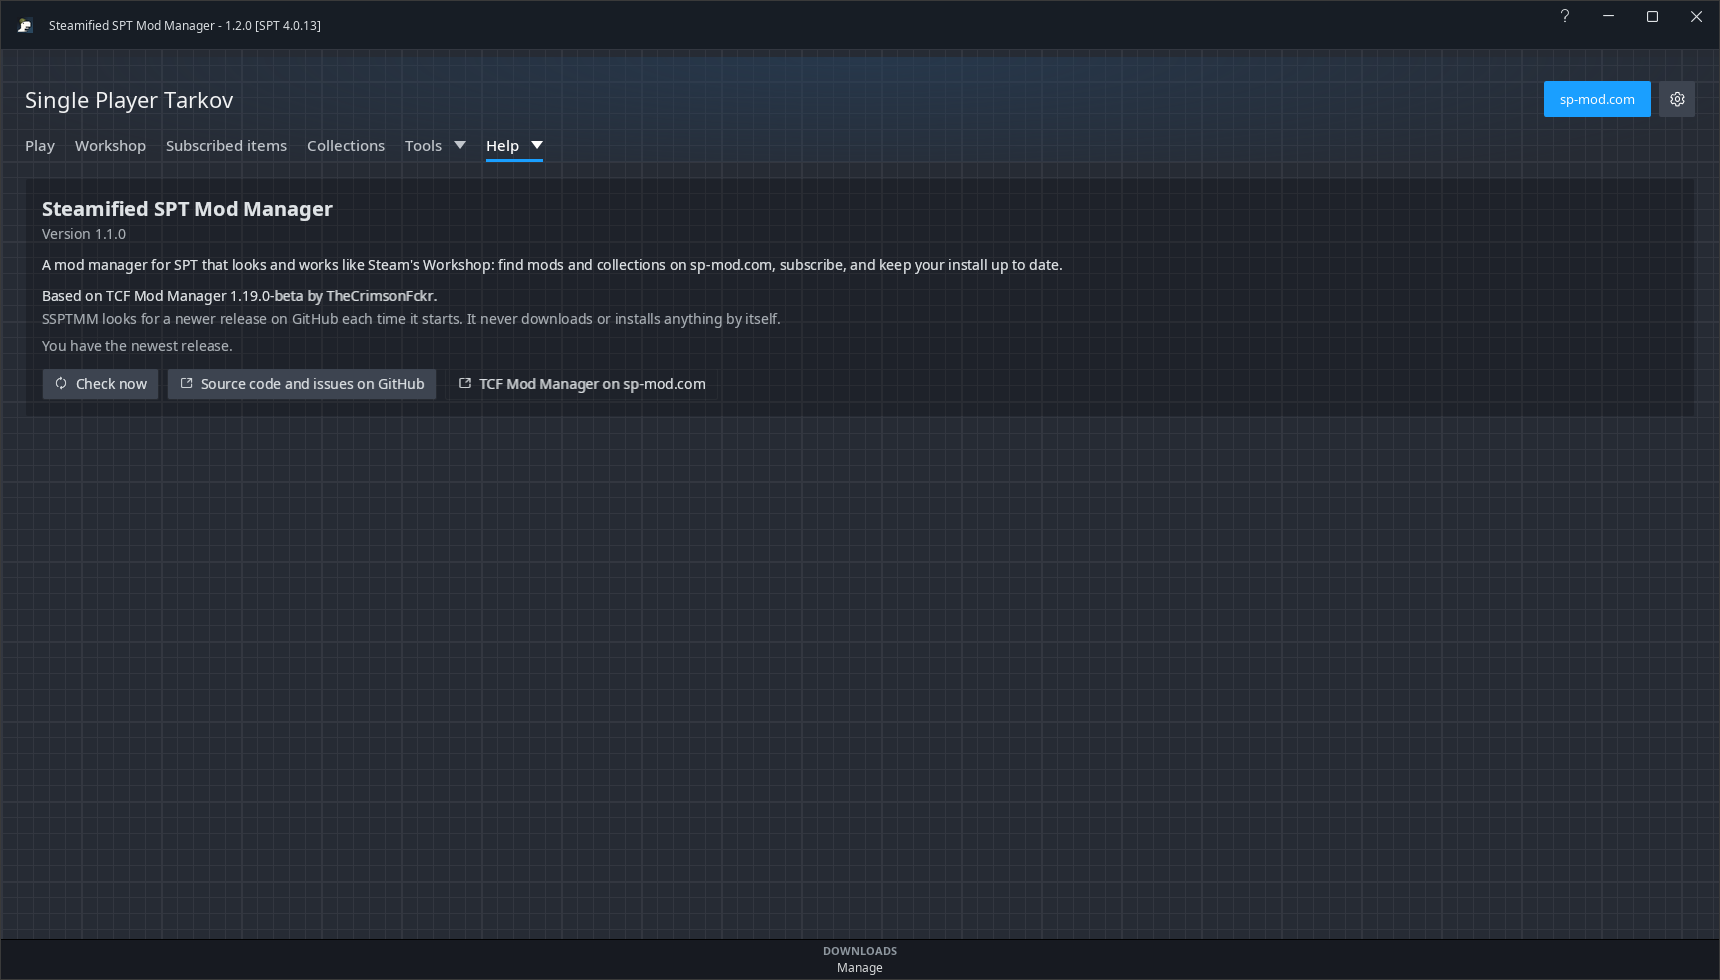
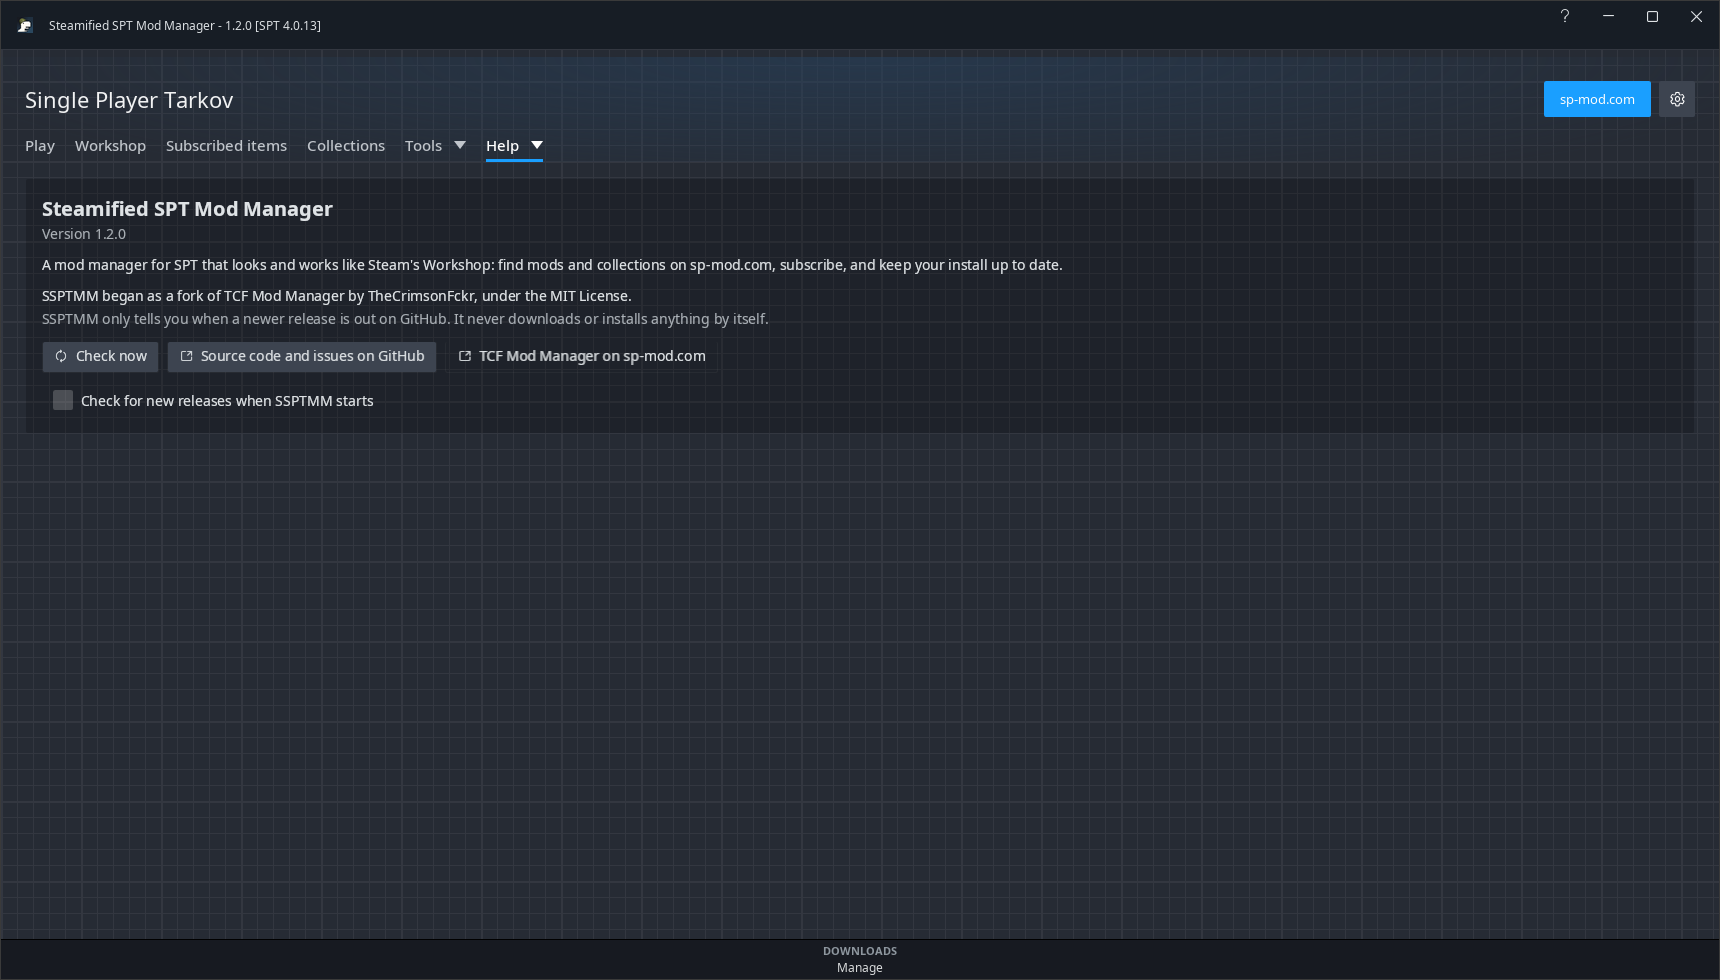
Wiki: Changes from TCF Mod Manager; About screenshot for 1.2.0
- New wiki page listing what SSPTMM adds, changes and leaves out
  compared with TCF Mod Manager 1.19.0-beta, linked from the README,
  the wiki's Home and sidebar.
- docs/images/15-about.png retaken: version 1.2.0, the credit line and
  the "Check for new releases when SSPTMM starts" switch.
- README: what Copy a report for help takes out, stated exactly.

Claude-Session: https://claude.ai/code/session_01ABUYmbT9KMCue2XP3Hw8Sy

Changed region(s): [[0.0, 0.2755, 0.4622, 0.4286]]

diff --git a/wiki/Changes-from-TCF-Mod-Manager.md b/wiki/Changes-from-TCF-Mod-Manager.md
@@ -1,0 +1,216 @@
+# Changes from TCF Mod Manager
+
+SSPTMM began as a fork of [TCF Mod Manager](https://sp-mod.com/mod/2945/tcf-mod-manager) by
+TheCrimsonFckr (MIT), version **1.19.0-beta**. This page lists everything SSPTMM adds, changes or
+leaves out compared with that release, up to SSPTMM 1.2.0. Release by release, the same changes are
+in the [changelog](https://github.com/trappuss/SSPTMM/blob/main/CHANGELOG.md).
+
+Apart from the few things under [Different or left out](#different-or-left-out), everything TCF Mod
+Manager 1.19.0-beta does is still here, under Steam's names:
+
+| TCF Mod Manager | SSPTMM |
+|---|---|
+| Install | **Subscribe** |
+| Remove | **Unsubscribe** |
+| Installed | **Subscribed items** |
+| Mod lists | **Collections** |
+| App update | **About** |
+
+![Workshop Home](https://raw.githubusercontent.com/trappuss/SSPTMM/main/docs/images/02b-workshop-home.png)
+
+## Look and navigation
+
+- Steam Workshop look throughout: Steam's colours, layout, grid background, buttons, menus, dialogs
+  and tooltips.
+- Six tabs across the top, as Steam lays them out: Play, Workshop, Subscribed items, Collections,
+  **Tools ▾** and **Help ▾**. Options is a gear, and an sp-mod.com button sits where Steam's Store
+  Page button is.
+- A downloads bar along the bottom shows what is downloading or installing; click it for Downloads.
+- Right-click any mod, anywhere: Open, Quick View, Subscribe/Unsubscribe, Update, Download only, Add
+  to Collection, Copy link, View mod page, the author's page and Follow.
+- Item, author and collection pages open over the page you came from. Esc, the mouse back button or
+  Alt+Left steps back through them.
+- Smooth scrolling (Options can switch it off). Options can also hide the Subscribed items and
+  Collections tabs, or put your own picture behind the window, with a slider to darken it.
+- Pages show one line of explanation; a small "?" at its end holds the rest.
+
+## Workshop
+
+- **Workshop Home**: a banner, the past week's most downloaded new mods, From Followed Authors, list
+  tabs (Top Rated, Most Subscribed, Last Updated, New) and content types with counts.
+- **Browse** with Steam's sidebar: SPT version rows, Content Type, Special Filters (Featured, Created
+  by Followed) and tag boxes (Fika compatible, Has dependencies, Has addons, hide Contains ads, hide
+  Subscribed).
+- Steam's sort orders, mapped to what sp-mod.com counts, search options (Title & Description, Title
+  Only, Description Only) and **Filter by Date**.
+- Each active filter shows as a chip; click it to remove that filter.
+- **Per page** of 10, 15, 30, 50 or **Infinite** (more loads as you scroll), remembered per page.
+- **Hover popups** with a slideshow of the mod's pictures, and **Quick View** with Subscribe and Add
+  to Collection; the arrow keys step through the list.
+- Badges on every card for installed, update available and disabled.
+- **Item page** with Description, Comments, Change Notes and Versions tabs, a strip of pictures and
+  videos, a full-size picture viewer and YouTube videos in the app. Descriptions show exactly as
+  written on sp-mod.com, including tables, code, warnings and animated GIFs.
+- Required Items (ticked when installed), Required By and More By.
+- sp-mod.com's own details on the item page: the multiplayer-cheat warning, the "may change your
+  profile" notice, VirusTotal scans, licence, plugin GUID, source links, Passed Verification and the
+  files in a download.
+- A **Versions** tab on the item page: each version's SPT range, size, downloads, Fika status and
+  requirements, with **Install this version** or **Switch to this version**. (TCF Mod Manager lists
+  versions and installs older ones from its details view.)
+- **Comments**: sp-mod.com's comments, inside the app. Sign in once to reply or react.
+- **Authors' pages** (Workshop Items, Collections, Addons, followers) and **Follow authors**.
+
+![Item page](https://raw.githubusercontent.com/trappuss/SSPTMM/main/docs/images/04-item.png)
+
+## Subscribing and downloads
+
+- Subscribe finds what a mod needs first, then asks once in Steam's **Additional Required Items**
+  dialog: Just This Item, Subscribe to All, or Cancel.
+- Subscribing from a mod's page doesn't ask you to open its page again. Elsewhere the "read the mod
+  page first" window shows the page inside the app, and an update's change notes.
+- **Up to three downloads at once**; installs still run one at a time, in order. Passing failures are
+  retried and stalled downloads resume where the server allows it.
+- Downloads are kept (up to 4 GB), so reinstalling the same version doesn't download it again.
+- **Download only** as a button beside Subscribe and in the right-click menu (TCF Mod Manager has it
+  as a mode and a small button beside Install).
+- **Install from file** for .zip, .7z, .rar, .tar and .tar.gz, or drop archives onto Subscribed items.
+  Your file is copied, never moved.
+- **File clashes**: files already on disk that belong to another mod, or to nothing the app
+  installed, are listed before an install, which waits for **Install Anyway**.
+- Before an install you're told about required mods that are disabled, too new, the wrong version, in
+  conflict or missing for your SPT, and about versions marked not for Fika when you run Fika.
+- **Unsubscribe from all** on a collection, a Steam-style Unsubscribe question with **Don't ask
+  again**, and a warning when installed mods still use the one you remove.
+
+## Subscribed items
+
+![Subscribed items](https://raw.githubusercontent.com/trappuss/SSPTMM/main/docs/images/07-subscribed-cards.png)
+
+- One toolbar (search, sort, Filters, views, **⋯**), and **Group by** inside the Cards and List views:
+  your own groups, sp-mod.com category or enabled/disabled, with dragging between your groups in
+  every view. (TCF Mod Manager has the Cards, List and Groups views.)
+- **Opens the way you left it**: filters, sort, grouping and view are remembered.
+- **Presets** of which mods are on and which are off, as Mod Organizer 2's profiles keep them, with
+  **Disable all mods** and **Enable all mods** for troubleshooting. Applying one names every change
+  first, warns about missing requirements, backs up your profiles, and can be undone or put back.
+- **Pick several mods** as Steam's library does (Ctrl+click, Shift+click, Ctrl+A), with Unsubscribe
+  in the selection bar alongside Update, Enable and Disable.
+- An on/off switch and a blue **Update** button on each mod, and **Update all**.
+- **Held-back updates**: an update that would break another installed mod is flagged and left out of
+  Update all.
+- A mod that doesn't run on your SPT names the newest version that does, and a mod that needs a
+  missing or disabled mod is flagged, offline and for hand-installed mods too.
+- Pinned mods sort to the top with a **PINNED** tag; a **RE-UPLOADED** tag with **Get it again**; a
+  **Recently installed** sort; and a **profile-change warning** first when removing a mod sp-mod.com
+  says may change your profile.
+- **SPT upgrade check**: pick a newer SPT and see which mods are ready, need an update, or have
+  nothing yet.
+
+## Collections
+
+![Your collections](https://raw.githubusercontent.com/trappuss/SSPTMM/main/docs/images/08-your-collections.png)
+
+- **Public collections from sp-mod.com**: browse, search (also by who made them), filter by SPT
+  version and sort six ways.
+- A collection's page shows each item's note from its author, the version each mod gets on your SPT,
+  and how much of it you already have.
+- **Subscribe to all** at the newest version for your SPT, or for the collection's SPT, with **Add
+  Only** or **Overwrite My Subscriptions** shown before anything changes. **Update all (N)**.
+- **Favorite** public collections; Favorites marks the ones that changed since you last looked.
+- **Your collections** (TCF Mod Manager's mod lists) as a grid of cards, with **Add from code**,
+  **Follow a shared file**, **Add to Collection** and **Save to Collection** added to saving what's
+  installed and importing list files.
+- **Share with friends** by share code (one line for Discord) or a shared folder kept up to date,
+  with a notice saying what changed and offering Sync or Later.
+
+## Play
+
+- **Stop server** (red), and the server **without its window**, its log live on the Play page.
+- **Close game**, and an option to close the game when the server stops. **Stop server** then closes
+  the game first, while the server can still answer it, so the game quits cleanly.
+- **Mod tools**: every .exe an installed mod put in your SPT folder (SVM's Greed, give-ui...), with
+  Open, its folder and Hide.
+- "Running" means running from this SPT install; another SPT copy elsewhere doesn't block it.
+- **Experimental, off by default: start the game from SSPTMM.** A profile list and a **PLAY** button
+  that start the server and the game with no SPT launcher window, for SPT 4.1.3 to 4.1.6. The SPT
+  team didn't make it and doesn't support it.
+
+## Tools
+
+- **Diagnose logs** (new): reads the server, BepInEx and game logs without changing anything, says in
+  plain words what went wrong and, when the log shows it, which mod it came from. **Copy a report for
+  help** takes out your user name, your user folder, profile ids and IP addresses with a port.
+- **Configs**: earlier versions of a config file can be brought back.
+
+## Safety
+
+- **SPT profile backups** before installs, updates, removals, disabling, collections and presets,
+  whenever the profiles changed; the last 10 per install are kept.
+- **Your BepInEx settings stay yours**: an archive's `.cfg` is only placed where none exists yet, or
+  over the app's own untouched copy.
+- Read-me files, licences and pictures in an archive are never dropped into SPT. Archives with
+  `plugins\` or `patchers\` but no `BepInEx\` around them are placed correctly.
+- Server prepatches in `user\patchers\` are installed, updated and removed with their mod; empty
+  folders a mod ships are created and removed with it.
+- **A check after every install and update**: each file on disk, server configs included, is
+  compared with the archive, and the download card names anything missing or different.
+- Files a mod tries to put in SPT's own user folders are left out and named in a warning. An install
+  that would place nothing fails and changes nothing.
+
+## Help and About
+
+- **Help** rewritten for the Steam layout, with topics for collections, Mod tools and Diagnose logs.
+  **Open the full guide** opens this wiki.
+- **Getting started** on Workshop Home ticks off three steps from your actual install.
+- **About** shows the version and credits, and points out a newer SSPTMM release on GitHub - only if
+  you agree when it first asks. It never downloads or installs anything.
+- **Report a problem** goes to this repository's Issues.
+
+## Privacy
+
+- No telemetry. Every server SSPTMM talks to, what it sends and every file it writes are listed in
+  [Files and network](Files-and-Network).
+- The `Referer` that sp-mod.com's picture server needs is sent only to sp-mod.com.
+- Closing SSPTMM with update notifications off removes its Windows notification registration.
+
+## Fixed compared with TCF Mod Manager 1.19.0-beta
+
+- Server prepatches in `user\patchers` were never placed, updated or removed (with Skills Extended,
+  raid results could be lost).
+- SVM's Greed said "couldn't find Preset folder" (the empty `Presets` folder was never created).
+- An update replaced your tuned BepInEx `.cfg` with the mod's defaults.
+- A mod's required items weren't offered again after you removed them and subscribed again.
+- A mod list entry with no version installed the oldest release, not the newest for your SPT.
+- 1.2.0-beta to 1.2.0 didn't count as an update; "-hotfix", "-fix" and "-patch" now count as newer.
+- Failed downloads and installs left nothing in the log.
+- Install dates came from the folder's date, so a mod copied with its archive's dates could look a
+  year old.
+- With the exe in the SPT folder itself, every install, update and removal was refused. (Fixed in
+  TCF Mod Manager 1.19.1 too; SSPTMM ported that fix.)
+
+## Different or left out
+
+- **Always dark.** TCF Mod Manager has light and dark themes (following Windows by default); SSPTMM
+  keeps Steam's dark look.
+- **No self-update.** TCF Mod Manager can download and install its own updates; SSPTMM only says a
+  newer release is out, and you unzip it yourself. It never offers TCF Mod Manager's updates, since
+  installing one would replace SSPTMM.
+- **Save as default on Subscribed items is gone**: the page remembers how you left it instead.
+- **"Hide mods with AI content" is gone**: sp-mod.com's API has no such field, so it never hid
+  anything.
+- **Its own settings.** SSPTMM keeps its own `Data` folder and doesn't read TCF Mod Manager's
+  settings.
+- **Newer TCF Mod Manager work isn't included.** SSPTMM no longer follows TCF Mod Manager's
+  releases. From the releases since 1.19.0-beta it has taken only the install fix above; TCF Mod
+  Manager's sp-mod.com list import and its page-loading changes are not in SSPTMM.
+- **Translations**: Steam's terms use Steam's own German, French, Italian and Russian wording; text
+  that is new in SSPTMM shows in English in those languages until it is translated.
+
+## Kept the same on purpose
+
+- The hidden folders inside an SPT install (`.tcfmm-removed`, `.tcfmm-work`, `.tcfmm-duplicates`),
+  so both apps can work on the same install and Undo still finds what it set aside.
+- Mod list files: each app opens the other's.
+- The Server Map: SSPTMM speaks the same protocol, so it works with TheCrimsonFckr's Server Map mod
+  and with TCF Mod Manager on the same server.

diff --git a/README.md b/README.md
@@ -60,11 +60,14 @@ Works with SPT 3.x and 4.x.
 
 SSPTMM began as a fork of **[TCF Mod Manager](https://sp-mod.com/mod/2945/tcf-mod-manager) by
 TheCrimsonFckr** (MIT), whose mod handling, installing and removing it was built on. It is now
-developed on its own, with its own look, names, settings and version numbers.
+developed on its own, with its own look, names, settings and version numbers. Everything it adds,
+changes or leaves out compared with TCF Mod Manager 1.19.0-beta, the release it was based on, is in
+[Changes from TCF Mod Manager](https://github.com/trappuss/SSPTMM/wiki/Changes-from-TCF-Mod-Manager).
 
 Problems with SSPTMM belong in this repository's
 [Issues](https://github.com/trappuss/SSPTMM/issues). Diagnose logs' **Copy a report for help** gives
-you a report to paste there, with your user name, folders and ids taken out.
+you a report to paste there, with your user name, user folder, profile ids and IP addresses taken
+out.
 
 ## Building from source
 

diff --git a/wiki/Home.md b/wiki/Home.md
@@ -46,7 +46,8 @@ SSPTMM uses Steam's words for what it does:
 ## Credits
 
 SSPTMM began as a fork of [TCF Mod Manager](https://sp-mod.com/mod/2945/tcf-mod-manager) by
-TheCrimsonFckr (MIT), and is now developed on its own. Report SSPTMM problems in
+TheCrimsonFckr (MIT), and is now developed on its own - see
+[Changes from TCF Mod Manager](Changes-from-TCF-Mod-Manager) for what is different. Report SSPTMM problems in
 [this repository's Issues](https://github.com/trappuss/SSPTMM/issues).
 
 Steam and the Steam Workshop are trademarks of Valve Corporation. SSPTMM is an independent fan

diff --git a/wiki/_Sidebar.md b/wiki/_Sidebar.md
@@ -20,4 +20,5 @@
 - [Troubleshooting](Troubleshooting)
 - [Files and network](Files-and-Network)
 - [Building from source](Building-from-Source)
+- [Changes from TCF Mod Manager](Changes-from-TCF-Mod-Manager)
 - [Changelog](https://github.com/trappuss/SSPTMM/blob/main/CHANGELOG.md)
